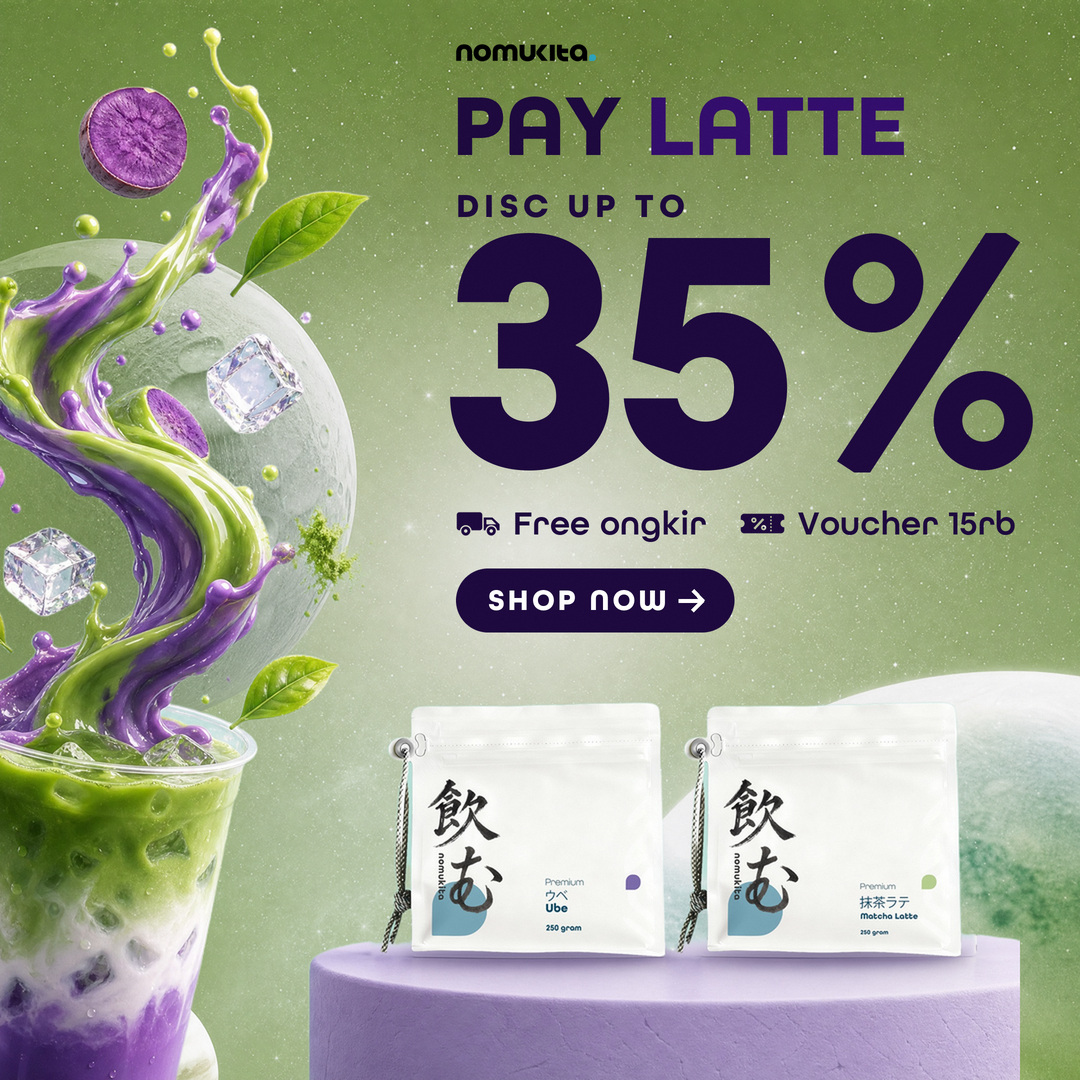
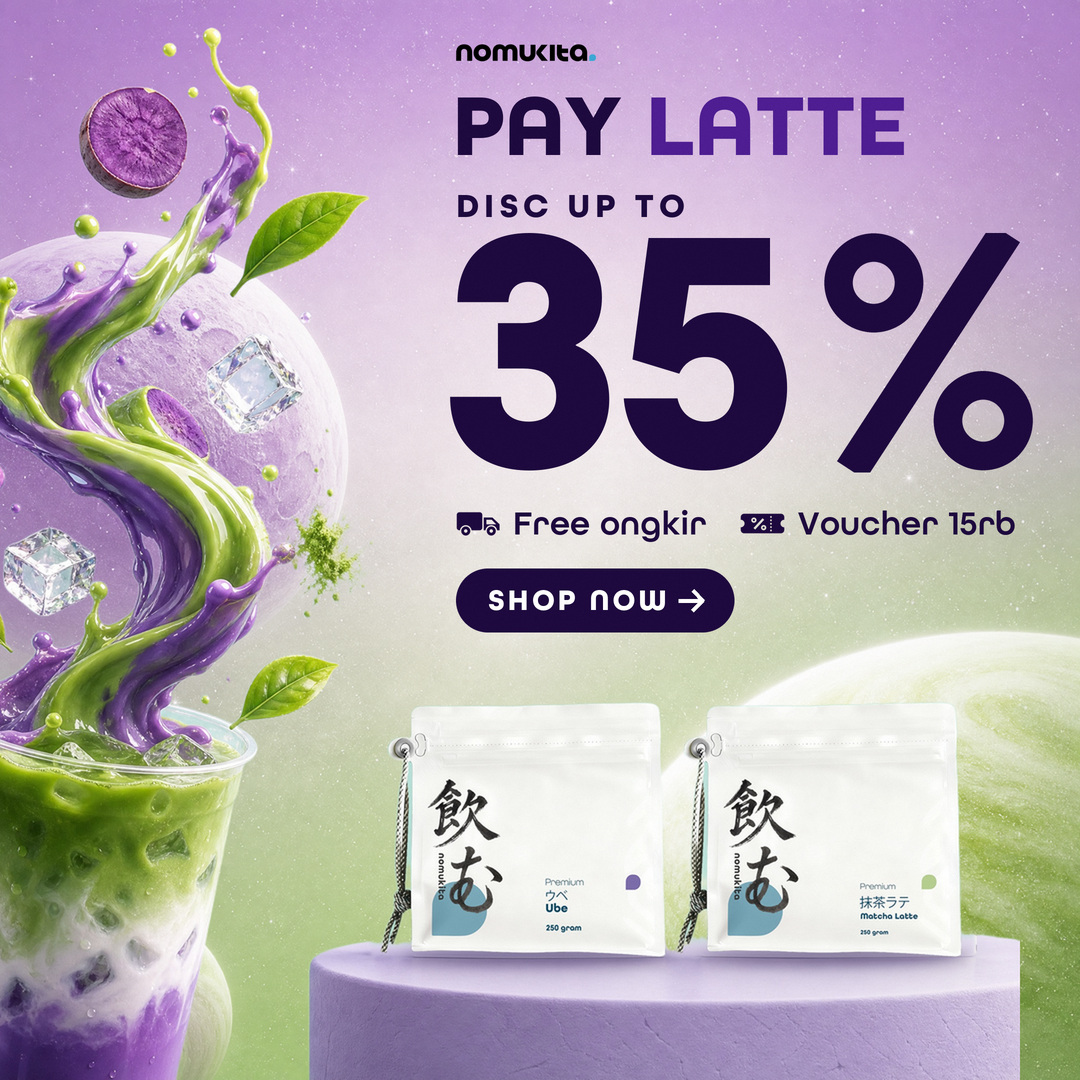
PAY LATTE v7: reference-style background in ube and matcha colours
Same misty space composition as the reference, recoloured: ube-violet to
matcha-green sky, an ube moon, a matcha latte-art planet. Foreground and
clean typography unchanged. v6 archived.

Claude-Session: https://claude.ai/code/session_01Bv3a5UzTxRJwy8L4VxmgVZ

diff --git a/banners/payday-pay-latte/scripts/v7/ptools.py b/banners/payday-pay-latte/scripts/v7/ptools.py
@@ -1,0 +1,64 @@
+"""Shared drawing helpers: tracked text, vector percent block, flat vector icons."""
+import sys, os, json, math
+import numpy as np
+from PIL import Image, ImageDraw, ImageFont
+ROOT = "/tmp/claude-0/-home-user-Dom-Manipulation/cc5b59a6-6b87-5897-882c-ef3d3b14e312/scratchpad"
+sys.path.insert(0, "/home/user/Dom-Manipulation/banners/10.10-ube")
+from compose import logo_rgba
+FD = ROOT + "/assets/fonts/All Round Gothic/"
+BOLD, DEMI = FD + "Fontspring-DEMO-allroundgothic-bold.otf", FD + "Fontspring-DEMO-allroundgothic-demi.otf"
+K = 2
+INK = (30, 10, 62); UBE = (78, 30, 146); WHITE = (255, 255, 255)
+
+def f(path, size): return ImageFont.truetype(path, int(round(size * K)))
+def cap(fnt): b = fnt.getbbox("H"); return (b[3] - b[1]) / K
+def text(cv, x, y, s, fnt, tr=0, fill=INK):
+    d = ImageDraw.Draw(cv); X = x * K; top = fnt.getbbox("H")[1]
+    for c in s:
+        d.text((X, y * K - top), c, font=fnt, fill=fill); X += fnt.getlength(c) + tr * K
+    return (X - tr * K) / K - x
+
+def pct_vec(digits, digit_h, color):
+    """Digits from the Bold font + a vector % (locked in the DEMO font), figure height = digit_h px."""
+    fb = ImageFont.truetype(BOLD, 400); b5 = fb.getbbox("5"); size = 400 * digit_h * K / (b5[3] - b5[1])
+    fb = ImageFont.truetype(BOLD, int(round(size))); bb = [fb.getbbox(c) for c in digits]
+    top = min(b[1] for b in bb); H = max(b[3] for b in bb) - top
+    t = 0.135 * size; r = 0.142 * size; ring = 0.082 * size; wp = 0.60 * size; gap = 0.075 * size
+    wd = sum(fb.getlength(c) for c in digits) - 0.02 * size * (len(digits) - 1)
+    Wt = int(wd + gap + wp + 8); ss = 3
+    lay = Image.new("RGBA", (Wt, int(H + 8)), (0, 0, 0, 0)); d = ImageDraw.Draw(lay); x = 0
+    for c in digits:
+        d.text((x, -top), c, font=fb, fill=color + (255,)); x += fb.getlength(c) - 0.02 * size
+    m = Image.new("L", (int((wp + 4) * ss), int((H + 4) * ss)), 0); md = ImageDraw.Draw(m)
+    Rr = r * ss; RI = (r - ring) * ss; c1 = (Rr + 2, Rr + 2); c2 = (wp * ss - Rr - 2, H * ss - Rr - 2)
+    for c0 in (c1, c2):
+        md.ellipse([c0[0] - Rr, c0[1] - Rr, c0[0] + Rr, c0[1] + Rr], fill=255); md.ellipse([c0[0] - RI, c0[1] - RI, c0[0] + RI, c0[1] + RI], fill=0)
+    q1 = (wp * ss - r * 0.55 * ss, 0); q2 = (r * 0.55 * ss, H * ss); dx, dy = q2[0] - q1[0], q2[1] - q1[1]; Ln = math.hypot(dx, dy)
+    nx, ny = -dy / Ln, dx / Ln; th = t * 0.72 / 2 * ss
+    md.polygon([(q1[0] + nx * th, q1[1] + ny * th), (q1[0] - nx * th, q1[1] - ny * th), (q2[0] - nx * th, q2[1] - ny * th), (q2[0] + nx * th, q2[1] + ny * th)], fill=255)
+    m = m.resize((int(wp + 4), int(H + 4)), Image.LANCZOS)
+    col = Image.new("RGBA", m.size, color + (255,)); col.putalpha(m); lay.alpha_composite(col, (int(wd + gap), 0))
+    return lay.crop(lay.getbbox())
+
+def icon(kind, h, color):
+    """Flat vector icons drawn on a 120x80 grid: delivery truck / voucher ticket."""
+    ss = 8; W0, H0 = 120, 80
+    m = Image.new("L", (W0 * ss, H0 * ss), 0); d = ImageDraw.Draw(m)
+    def R(box, rad, fill=255): d.rounded_rectangle([v * ss for v in box], radius=rad * ss, fill=fill)
+    def C(cx, cy, r, fill=255): d.ellipse([(cx - r) * ss, (cy - r) * ss, (cx + r) * ss, (cy + r) * ss], fill=fill)
+    if kind == "truck":
+        R((2, 10, 70, 58), 7)                                           # cargo box
+        d.polygon([(v[0] * ss, v[1] * ss) for v in [(74, 24), (97, 24), (116, 42), (116, 58), (74, 58)]], fill=255)   # cab
+        R((74, 24, 100, 58), 5); R((96, 40, 116, 58), 5)
+        d.polygon([(v[0] * ss, v[1] * ss) for v in [(81, 30), (95, 30), (107, 42), (81, 42)]], fill=0)                # window
+        for cx in (26, 94):
+            C(cx, 60, 15.5, 0); C(cx, 60, 12); C(cx, 60, 4.6, 0)        # wheels with a gap ring
+    else:
+        R((2, 14, 118, 66), 9)                                          # ticket body
+        C(2, 40, 10, 0); C(118, 40, 10, 0)                              # side notches
+        for y in range(20, 64, 9): R((80.5, y, 84.5, y + 5), 2, 0)      # perforation
+        d.polygon([(v[0] * ss, v[1] * ss) for v in [(36, 52), (60, 26), (64.5, 30), (40.5, 56)]], fill=0)             # small % mark
+        C(37, 31, 7, 0); C(37, 31, 2.6); C(63, 51, 7, 0); C(63, 51, 2.6)
+    w = round(h * K * W0 / H0); m = m.resize((w, int(h * K)), Image.LANCZOS)
+    lay = Image.new("RGBA", m.size, color + (255,)); lay.putalpha(m); return lay
+

diff --git a/banners/payday-pay-latte/scripts/v7/compose_v5.py b/banners/payday-pay-latte/scripts/v7/compose_v5.py
@@ -1,0 +1,51 @@
+"""PAY LATTE v5: minimal typography on one left axis (logo, PAY LATTE, DISC UP TO, 35%, one benefits line, CTA).
+Sizes: label/body 34, headline, 35% (digit height 21.94% of width), CTA 30. No 'PAYDAY SALE'."""
+import sys, os, json
+import numpy as np, cv2
+from PIL import Image, ImageDraw
+from ptools import *
+L = json.loads(sys.argv[1]); CW, CH = L["size"]; X = L["x"]
+A = np.asarray(Image.open(L["bg"]).convert("RGB")).astype(np.float32); sx = L.get("shift", 0)
+if sx:
+    edge = cv2.GaussianBlur(np.median(A[:, -16:], axis=1)[:, None], (0, 0), sigmaX=0.1, sigmaY=4)[:, 0]   # colour at the original right edge
+    strip = np.repeat(edge[:, None], sx, axis=1) + np.random.default_rng(3).normal(0, 1.2, (A.shape[0], sx, 1))
+    A = np.concatenate([A[:, sx:], strip], axis=1)
+Image.fromarray(np.clip(A, 0, 255).astype(np.uint8)).save(L["out"] + ".bg.png")
+cv = Image.fromarray(np.clip(A, 0, 255).astype(np.uint8)).resize((CW * K, CH * K), Image.LANCZOS).convert("RGBA")
+boxes = {}
+def tw(s, fnt, tr=0): return sum(fnt.getlength(c) for c in s) / K + tr * (len(s) - 1)
+def put(key, s, fnt, y, tr=0, fill=INK, x=None):
+    x = X if x is None else x; text(cv, x, y, s, fnt, tr, fill); boxes[key] = (x, y, x + tw(s, fnt, tr), y + cap(fnt)); return y + cap(fnt)
+y = L["y0"]
+lg = logo_rgba(ROOT + "/assets/logo01.jpg"); lw = L.get("logo_w", 150) * K
+lg = lg.resize((int(lw), int(lg.height * lw / lg.width)), Image.LANCZOS); cv.alpha_composite(lg, (int(X * K), int(y * K)))
+boxes["logo"] = (X, y, X + lw / K, y + lg.height / K); y += lg.height / K + L["g_logo"]
+fh = f(BOLD, L["head"]); wp = tw("PAY ", fh); put("PAY", "PAY", fh, y, 0, INK, X - 4); y = put("LATTE", "LATTE", fh, y, 0, UBE, X - 4 + wp) + L["g_group"]
+fl = f(BOLD, L.get("label", 34)); y = put("DISC UP TO", "DISC UP TO", fl, y, 5) + L.get("g_pct", 18)
+pct = pct_vec("35", 0.2194 * CW * 0.983, INK); cv.alpha_composite(pct, (int((X - 6) * K), int(y * K)))
+boxes["35%"] = (X - 6, y, X - 6 + pct.width / K, y + pct.height / K); y += pct.height / K + L["g_group"]
+fo = f(DEMI, L.get("body", 34)); ih = L.get("icon_h", 30); x = X
+for i, (kind, s) in enumerate([("truck", "Free ongkir"), ("ticket", "Voucher 15rb")]):
+    ic = icon(kind, ih, INK); cv.alpha_composite(ic, (int(x * K), int((y + cap(fo) / 2 - ih / 2) * K)))
+    wt = tw(s, fo, 0.3); text(cv, x + ic.width / K + 12, y, s, fo, 0.3, INK); boxes[f"b{i}"] = (x, y - 4, x + ic.width / K + 12 + wt, y + cap(fo) + 4)
+    x += ic.width / K + 12 + wt + L.get("sep", 34)
+y += cap(fo) + L.get("g_cta", 40)
+fc = f(BOLD, L.get("cta", 30)); h = L.get("cta_h", 68); aw = 24; t_w = tw("SHOP NOW", fc, 3); w = t_w + 2 * 32 + aw + 12
+pl = Image.new("RGBA", (int(w * K * 3), int(h * K * 3)), (0, 0, 0, 0))
+ImageDraw.Draw(pl).rounded_rectangle([0, 0, pl.width - 1, pl.height - 1], radius=pl.height / 2, fill=INK + (255,))
+cv.alpha_composite(pl.resize((int(w * K), int(h * K)), Image.LANCZOS), (int(X * K), int(y * K)))
+tx = X + 32; text(cv, tx, y + (h - cap(fc)) / 2, "SHOP NOW", fc, 3, WHITE)
+d = ImageDraw.Draw(cv); ax = (tx + t_w + 12) * K; ay = (y + h / 2) * K; Lr = aw * K; th = int(4 * K)
+d.line([(ax, ay), (ax + Lr, ay)], fill=WHITE, width=th)
+d.line([(ax + Lr * 0.58, ay - Lr * 0.42), (ax + Lr + 1, ay + 1)], fill=WHITE, width=th)
+d.line([(ax + Lr * 0.58, ay + Lr * 0.42), (ax + Lr + 1, ay - 1)], fill=WHITE, width=th)
+boxes["cta"] = (X, y, X + w, y + h)
+print({k: tuple(round(v) for v in b) for k, b in boxes.items()})
+out = cv.convert("RGB").resize((CW, CH), Image.LANCZOS)
+a = np.asarray(out).astype(np.float32) + np.random.default_rng(11).normal(0, 0.7, (CH, CW, 1))
+out = Image.fromarray(np.clip(a, 0, 255).astype(np.uint8))
+for q in (94, 92, 90):
+    out.save(L["out"], quality=q, optimize=True, progressive=True, subsampling=0)
+    if os.path.getsize(L["out"]) <= 2_000_000: break
+json.dump({k: [float(v) for v in b] for k, b in boxes.items()}, open(L["out"] + ".boxes.json", "w"))
+print("saved", L["out"], out.size, os.path.getsize(L["out"]), "bytes")

diff --git a/banners/payday-pay-latte/scripts/v7/verify3.py b/banners/payday-pay-latte/scripts/v7/verify3.py
@@ -1,0 +1,21 @@
+import sys, json, numpy as np, os, cv2
+from PIL import Image
+out, bgp = sys.argv[1], sys.argv[2]
+im = Image.open(out); a = np.asarray(im.convert('RGB')).astype(float); bx = json.load(open(out + '.boxes.json'))
+x0, y0, x1, y1 = [int(v) for v in bx['35%']]
+ink = (a[..., 0] < 80) & (a[..., 2] < 130) & (a[..., 1] < 60)
+r = np.where(ink[y0 - 4:y1 + 4, x0:x0 + 330].sum(axis=1) > 8)[0]
+print(os.path.basename(out), im.size, os.path.getsize(out), "bytes | digit height", r.max() - r.min() + 1, "px =", round(100 * (r.max() - r.min() + 1) / im.width, 2), "% of width")
+bg = np.asarray(Image.open(bgp).convert('RGB')).astype(np.float32)
+def rl(c):
+    c = c / 255; c = np.where(c <= 0.03928, c / 12.92, ((c + 0.055) / 1.055) ** 2.4); return 0.2126 * c[..., 0] + 0.7152 * c[..., 1] + 0.0722 * c[..., 2]
+Lm = rl(bg); ink_l = rl(np.array([[30, 10, 62]], float))[0]; ube_l = rl(np.array([[78, 30, 146]], float))[0]
+cr = lambda p, q: (max(p, q) + 0.05) / (min(p, q) + 0.05)
+obj = (np.abs(bg - cv2.GaussianBlur(bg, (0, 0), 60)).max(axis=2) > 18).astype(np.uint8)
+obj = cv2.morphologyEx(obj, cv2.MORPH_OPEN, np.ones((5, 5), np.uint8)).astype(bool)
+for k, b in bx.items():
+    if k == 'logo' or k.startswith('pouch'): continue
+    X0, Y0, X1, Y1 = [int(round(v)) for v in b]; reg = Lm[Y0:Y1, X0:X1]; lo, hi = np.percentile(reg, 5), np.percentile(reg, 95)
+    c = min(cr(ink_l, lo), cr(ink_l, hi)); extra = f" | purple {min(cr(ube_l, lo), cr(ube_l, hi)):.1f}:1" if 'LATTE' in k else ""
+    under = obj[Y0:Y1, X0:X1].mean(); pad = 20; near = obj[max(0, Y0 - pad):Y1 + pad, max(0, X0 - pad):X1 + pad].mean()
+    print(f"  {k:10s} contrast {c:.1f}:1{extra} | photo under text {100 * under:.1f}% | within 20 px {100 * near:.1f}%")

diff --git a/banners/payday-pay-latte/scripts/v7/comp.py b/banners/payday-pay-latte/scripts/v7/comp.py
@@ -1,0 +1,23 @@
+"""Cut-out foreground (old lilac planets removed) over the reference-matched background.
+Usage: comp.py FG BG out W H shift remove_components... [circle=cx,cy,r]"""
+import sys, numpy as np, cv2
+from PIL import Image
+fgp, bgp, out, W, H, shift = sys.argv[1], sys.argv[2], sys.argv[3], int(sys.argv[4]), int(sys.argv[5]), int(sys.argv[6])
+rm = [a for a in sys.argv[7:] if not a.startswith(('circle=', 'rect='))]; rects = [a[5:] for a in sys.argv[7:] if a.startswith('rect=')]; circ = [a[7:] for a in sys.argv[7:] if a.startswith('circle=')]
+f = np.asarray(Image.open(fgp).convert('RGBA')).copy(); A = f[..., 3]
+k, lab, st, _ = cv2.connectedComponentsWithStats((A > 40).astype(np.uint8))
+for r in rm:   # remove the component containing point x,y
+    x, y = map(int, r.split(',')); i = lab[y, x]
+    if i: f[lab == i, 3] = 0; print("removed component at", (x, y), "area", st[i, 4])
+rgb = f[..., :3].astype(np.int16); sat = rgb.max(axis=2) - rgb.min(axis=2)
+for c in circ:
+    cx, cy, r = map(int, c.split(',')); yy, xx = np.mgrid[:f.shape[0], :f.shape[1]]
+    m = ((xx - cx) ** 2 + (yy - cy) ** 2 < (r + 6) ** 2) & (sat < 60)
+    f[m, 3] = 0; print("removed pale planet px", int(m.sum()))
+for r in rects:
+    x0, y0, x1, y1 = map(int, r.split(',')); sub = f[y0:y1, x0:x1]; m = sat[y0:y1, x0:x1] < 60
+    sub[m, 3] = 0; print("removed pale px in rect", int(m.sum()))
+fg = Image.fromarray(f, 'RGBA'); s = W / fg.width; fg = fg.resize((W, round(fg.height * s)), Image.LANCZOS)
+top = (fg.height - H) // 2; fg = fg.crop((0, top, W, top + H))
+bg = Image.open(bgp).convert('RGB').resize((W, H), Image.LANCZOS).convert('RGBA')
+bg.alpha_composite(fg, (-shift, 0)); bg.convert('RGB').save(out); print("saved", out)

diff --git a/banners/payday-pay-latte/README.md b/banners/payday-pay-latte/README.md
@@ -1,10 +1,28 @@
 # PAY LATTE, banner payday (Ube & Matcha Latte 250 g, Ube Matcha Latte)
 
-File (versi 6, aktif)
-- `pay-latte-payday-1080x1620.jpg` (2:3, 0,65 MB)
-- `pay-latte-payday-1080x1080.jpg` (1:1, 0,44 MB)
-- Versi sebelumnya: `archive-v5/` (latar lilac-mint), `archive-v4/`, `archive-v3/`, `archive-v2/`, `archive-v1/`.
+File (versi 7, aktif)
+- `pay-latte-payday-1080x1620.jpg` (2:3, 0,61 MB)
+- `pay-latte-payday-1080x1080.jpg` (1:1, 0,41 MB)
+- Versi sebelumnya: `archive-v6/` (latar hijau seperti referensi), `archive-v5/`, `archive-v4/`, `archive-v3/`, `archive-v2/`, `archive-v1/`.
 
+Versi 7: latar bergaya referensi, warna bertema Matcha Ube Latte
+- Komposisi latar sama dengan "Referensi Payday_Nomu.jpeg" (langit berkabut dengan cahaya lembut, bintang halus,
+  vignette, bulan di kiri, planet besar di kanan bawah, planet kecil di kiri bawah), tetapi diwarnai ulang:
+  langit gradasi ungu ube (atas) ke krem susu ke hijau matcha (bawah); bulan kiri = planet ungu ube bertekstur
+  seperti daging ubi; planet kanan bawah = planet hijau matcha dengan alur susu seperti latte art; planet kecil
+  = campuran ube-matcha. Prompt: `source/prompt_v7_background_ube_matcha.txt`.
+- Objek depan (cup, pita, irisan ube, es, daun, podium, pouch 250 g asli) sama dengan v5/v6, ditempel utuh.
+- Tipografi clean v5; LATTE kembali ungu ube (78,30,146) karena latar terang di belakang teks.
+
+Pengukuran v7 (`scripts/v7/verify3.py`)
+- Tinggi angka 35 = 237 px (21,94% lebar).
+- Kontras terburuk (2:3 / 1:1): PAY 8,7 / 9,3; LATTE ungu 6,1 / 4,9; DISC UP TO 10,6 / 11,3; 35% 11,9 / 9,1;
+  manfaat 11,8-14,8 / 10,0-14,0; tombol 14,1 / 12,4. Tidak ada objek foto di bawah teks.
+
+Kredit kie.ai v7: 60 (6 latar 2K). Saldo key baru 8.280.
+
+---
+Catatan versi 6
 Versi 6: latar sama dengan "Referensi Payday_Nomu.jpeg"
 - Latar dibuat ulang dari referensi (GPT Image 2, `source/prompt_v6_background.txt`): langit luar angkasa hijau sage
   berkabut dengan cahaya terang di tengah, bintang halus, bulan abu-abu berkawah di kiri, planet mint besar di kanan
